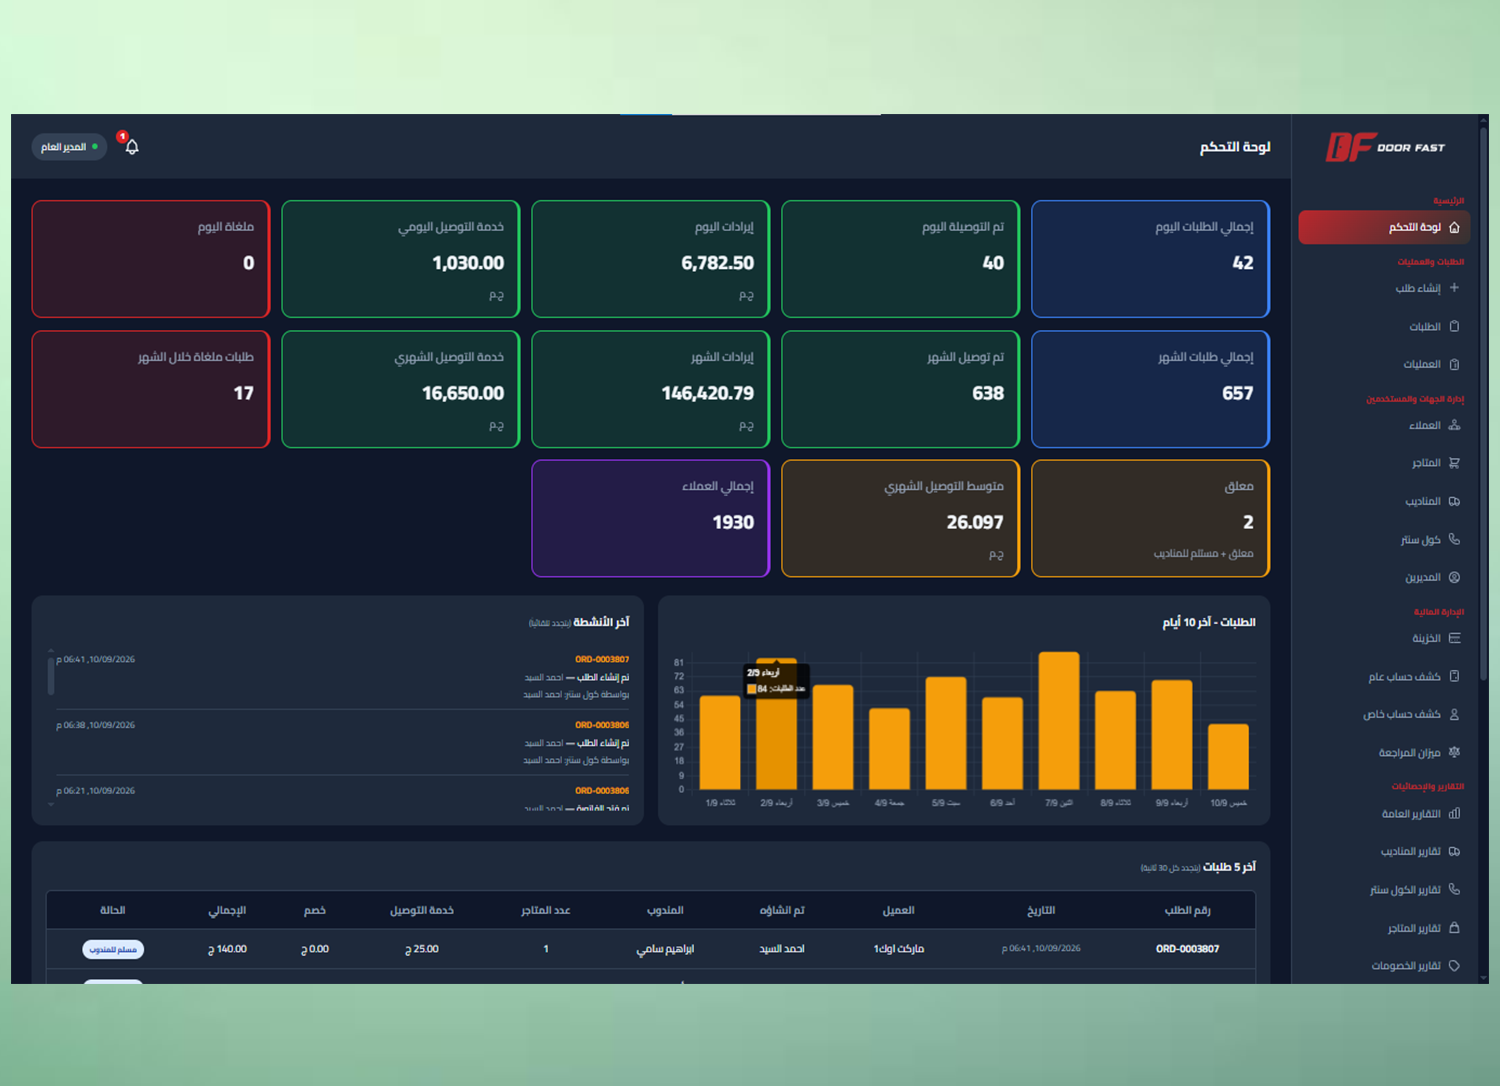
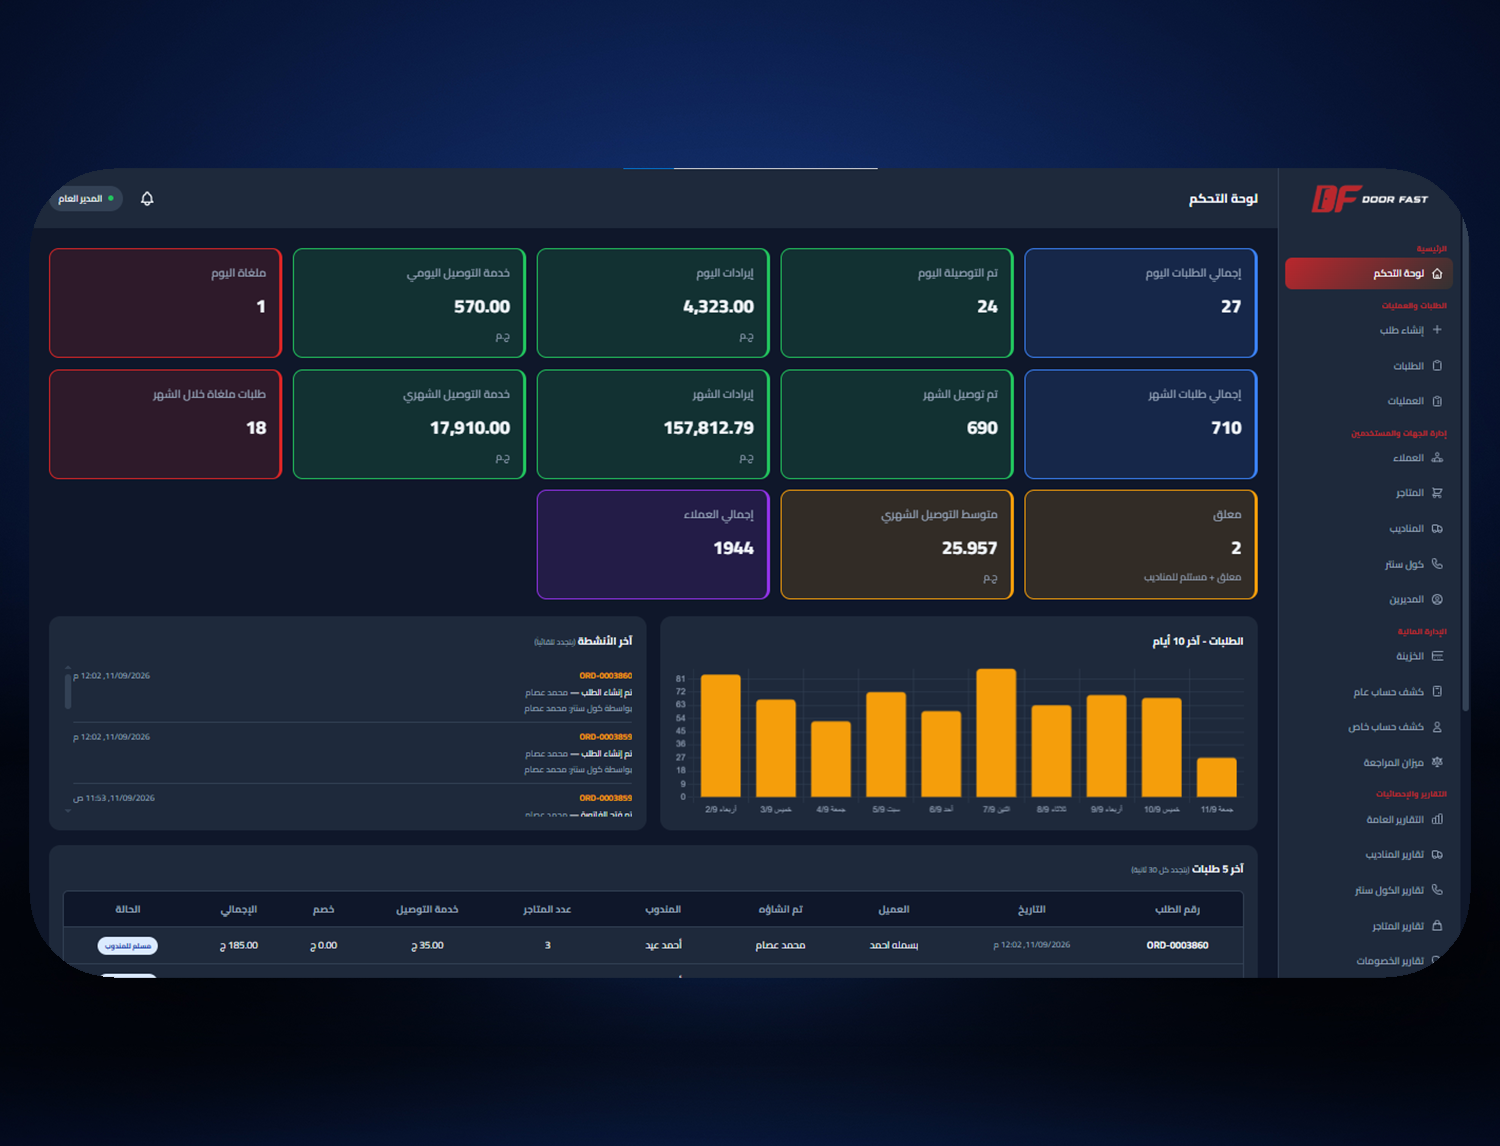
" 11 / 9 / 2026 - 12AM "

diff --git a/index.html b/index.html
@@ -159,19 +159,24 @@
     <div class="projects-container">
 
       <div class="project-card">
-        <img src="images/Cleveroad.jpg" alt="E-Commerce Website">
-        <h3>E-Commerce Website</h3>
-        <p>Modern online store with product filtering, cart, and payment system.</p>
+        <img src="images/Df.png" alt="Task Manager">
+        <h3>Delivary System website</h3>
+        <!-- <p>Task tracking web app with CRUD features and clean UI.</p> -->
         <div class="skills">
           <a href="#">HTML</a>
           <a href="#">CSS</a>
-          <a href="#">JavaScript</a>
+          <a href="#">JS</a>
+          <a href="#">API</a>
+          <a href="#">PHP</a>
+          <a href="#">MySQL</a>
         </div>
         <div class="btns">
           <a href="#" class="btn"><i class="fab fa-github"></i> GitHub</a>
           <a href="#" class="btn"><i class="fas fa-external-link-alt"></i> Live Demo</a>
         </div>
       </div>
+
+
 
       <div class="project-card">
         <img src="images/Capture d'écran 2025-10-22 182207.png" alt="Portfolio Website">
@@ -180,7 +185,28 @@
         <div class="skills">
           <a href="#">HTML</a>
           <a href="#">CSS</a>
-          <a href="#">Bootstrap</a>
+          <a href="#">JS</a>
+          <a href="#">Boostrap</a>
+        </div>
+        <div class="btns">
+          <a href="https://github.com/A7med3ly2004/portfolio" class="btn"><i class="fab fa-github"></i> GitHub</a>
+          <a href="https://a7med3ly2004.github.io/portfolio/" class="btn"><i class="fas fa-external-link-alt"></i> Live
+            Demo</a>
+        </div>
+      </div>
+
+      <div class="project-card">
+        <img src="images/PlantDoc.png" alt="Weather App">
+        <h3>PlantDoc</h3>
+        <!-- <p>Responsive app showing real-time weather data using API integration.</p> -->
+        <div class="skills">
+          <a href="#">HTML</a>
+          <a href="#">CSS</a>
+          <a href="#">JS</a>
+          <a href="#">API</a>
+          <a href="#">MongoDB</a>
+          <a href="#">Node.js</a>
+          <a href="#">Express.js</a>
         </div>
         <div class="btns">
           <a href="#" class="btn"><i class="fab fa-github"></i> GitHub</a>
@@ -188,14 +214,14 @@
         </div>
       </div>
 
-      <div class="project-card">
-        <img src="images/PlantDoc.png" alt="Weather App">
-        <h3>Weather App</h3>
-        <p>Responsive app showing real-time weather data using API integration.</p>
+      <!-- <div class="project-card">
+        <img src="images/Cleveroad.jpg" alt="E-Commerce Website">
+        <h3>E-Commerce Website</h3>
+        <p>Modern online store with product filtering, cart, and payment system.</p>
         <div class="skills">
           <a href="#">HTML</a>
           <a href="#">CSS</a>
-          <a href="#">API</a>
+          <a href="#">JavaScript</a>
         </div>
         <div class="btns">
           <a href="#" class="btn"><i class="fab fa-github"></i> GitHub</a>
@@ -218,7 +244,7 @@
         </div>
       </div>
 
-      <div class="project-card">
+       <div class="project-card">
         <img src="images/Game Dashboard Design.jpg" alt="Game Landing Page">
         <h3>Game Landing Page</h3>
         <p>Landing page for a game with animations and parallax effects.</p>
@@ -231,22 +257,9 @@
           <a href="#" class="btn"><i class="fab fa-github"></i> GitHub</a>
           <a href="#" class="btn"><i class="fas fa-external-link-alt"></i> Live Demo</a>
         </div>
-      </div>
+      </div>  -->
 
-      <div class="project-card">
-        <img src="images/Df.png" alt="Task Manager">
-        <h3>Delivary System website</h3>
-        <p>Task tracking web app with CRUD features and clean UI.</p>
-        <div class="skills">
-          <a href="#">HTML</a>
-          <a href="#">CSS</a>
-          <a href="#">JS</a>
-        </div>
-        <div class="btns">
-          <a href="#" class="btn"><i class="fab fa-github"></i> GitHub</a>
-          <a href="#" class="btn"><i class="fas fa-external-link-alt"></i> Live Demo</a>
-        </div>
-      </div>
+
     </div>
   </section>
   <section class="services" id="services">
